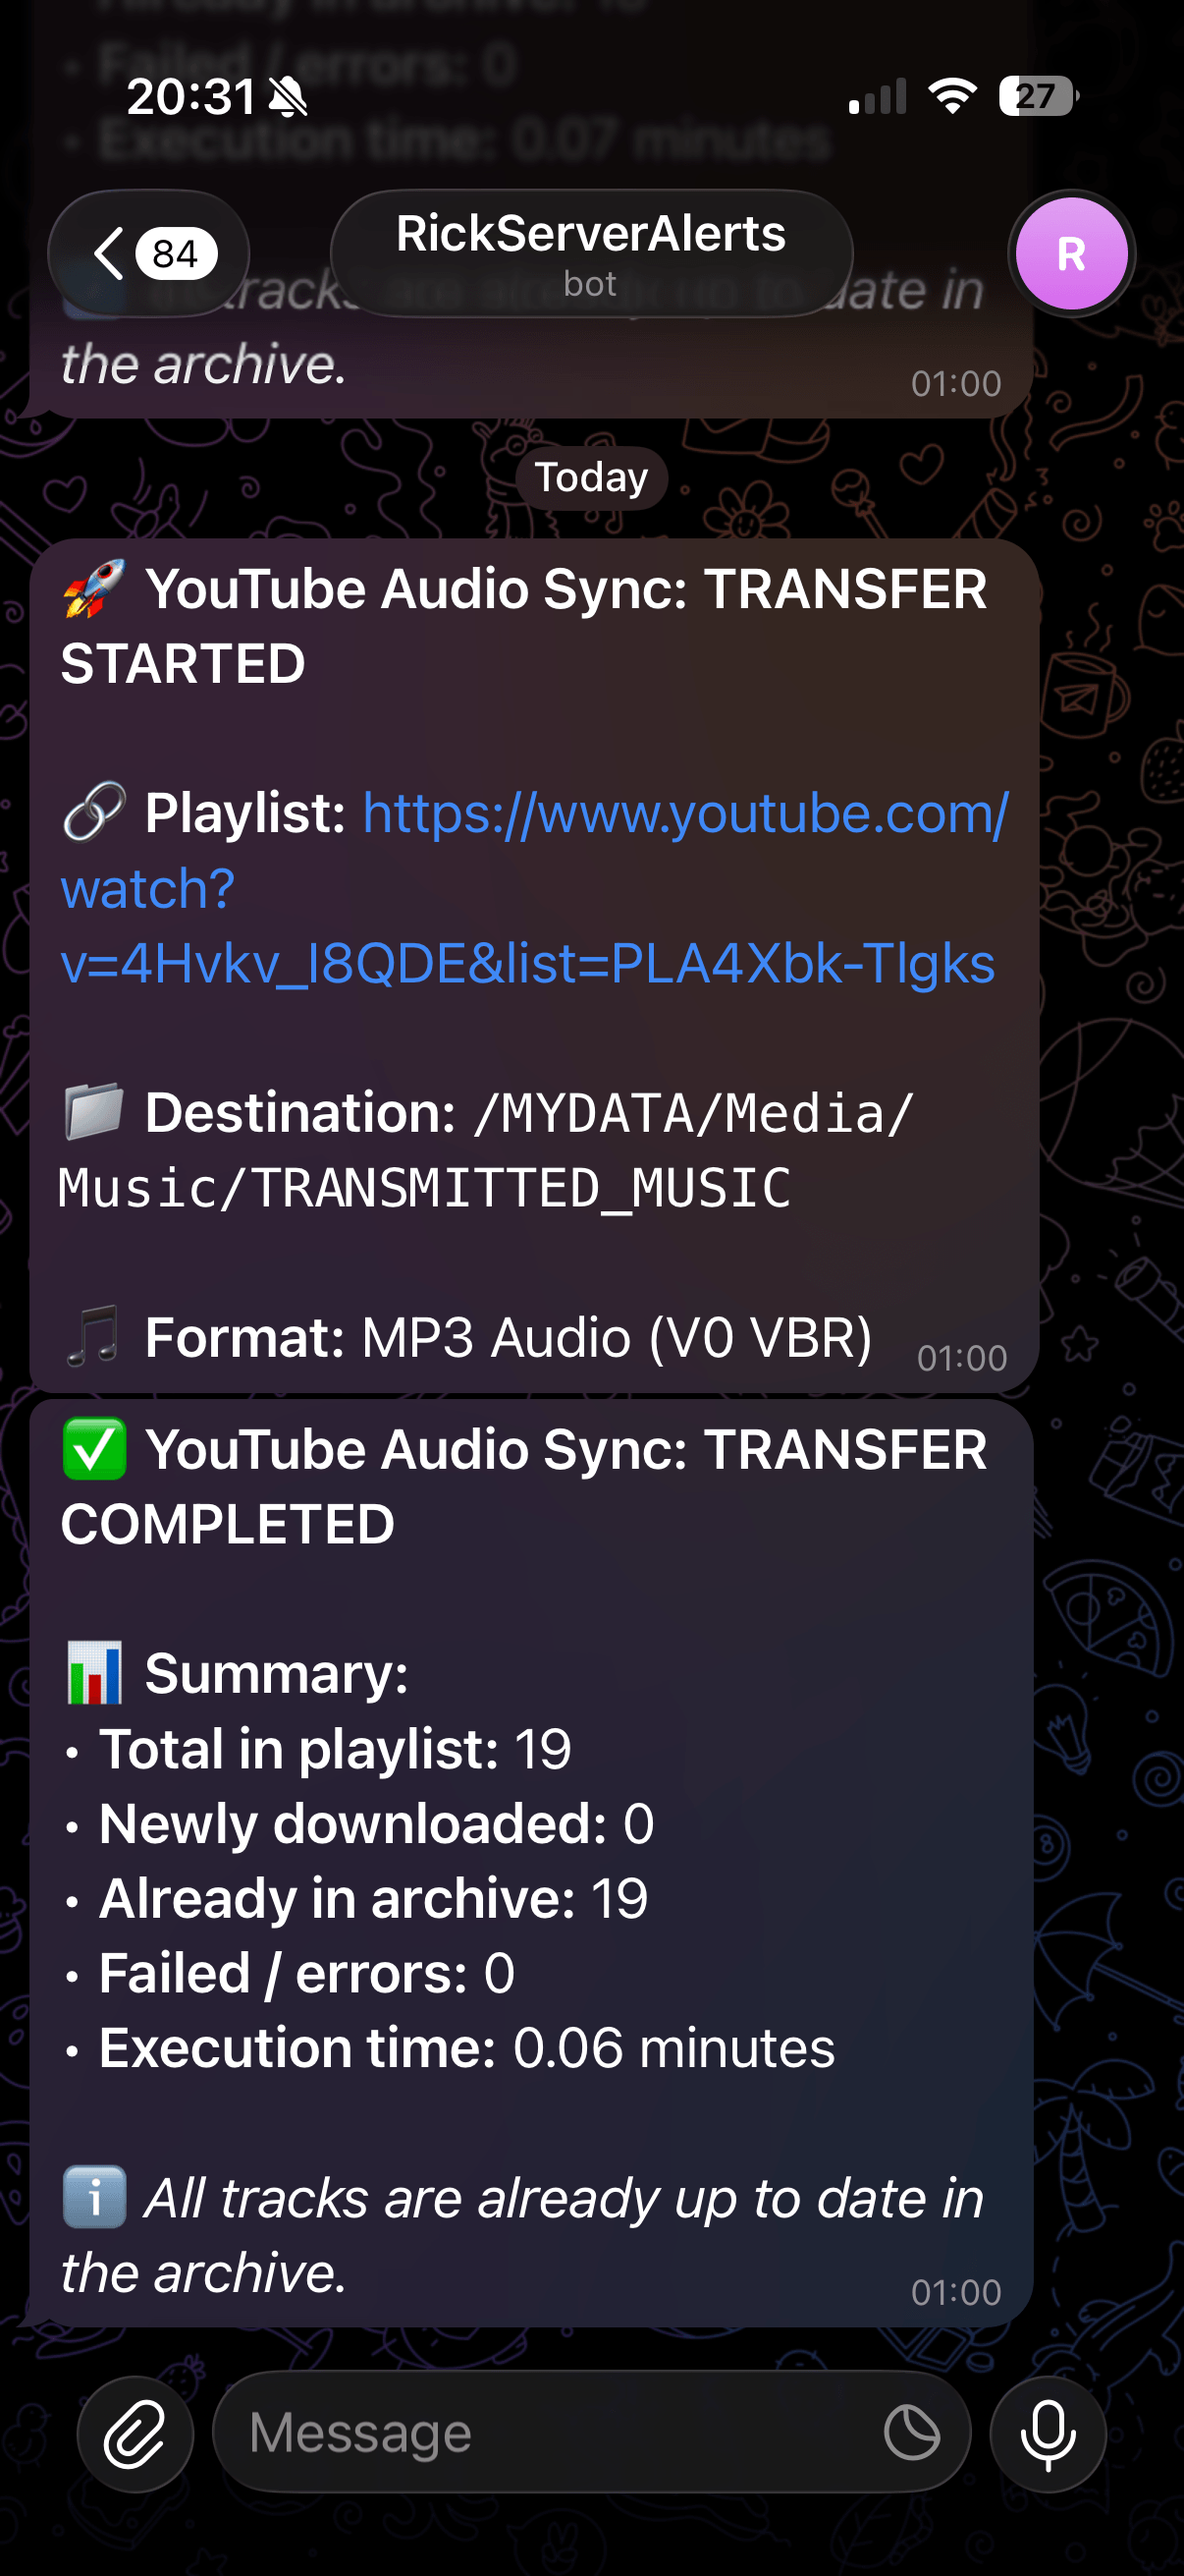
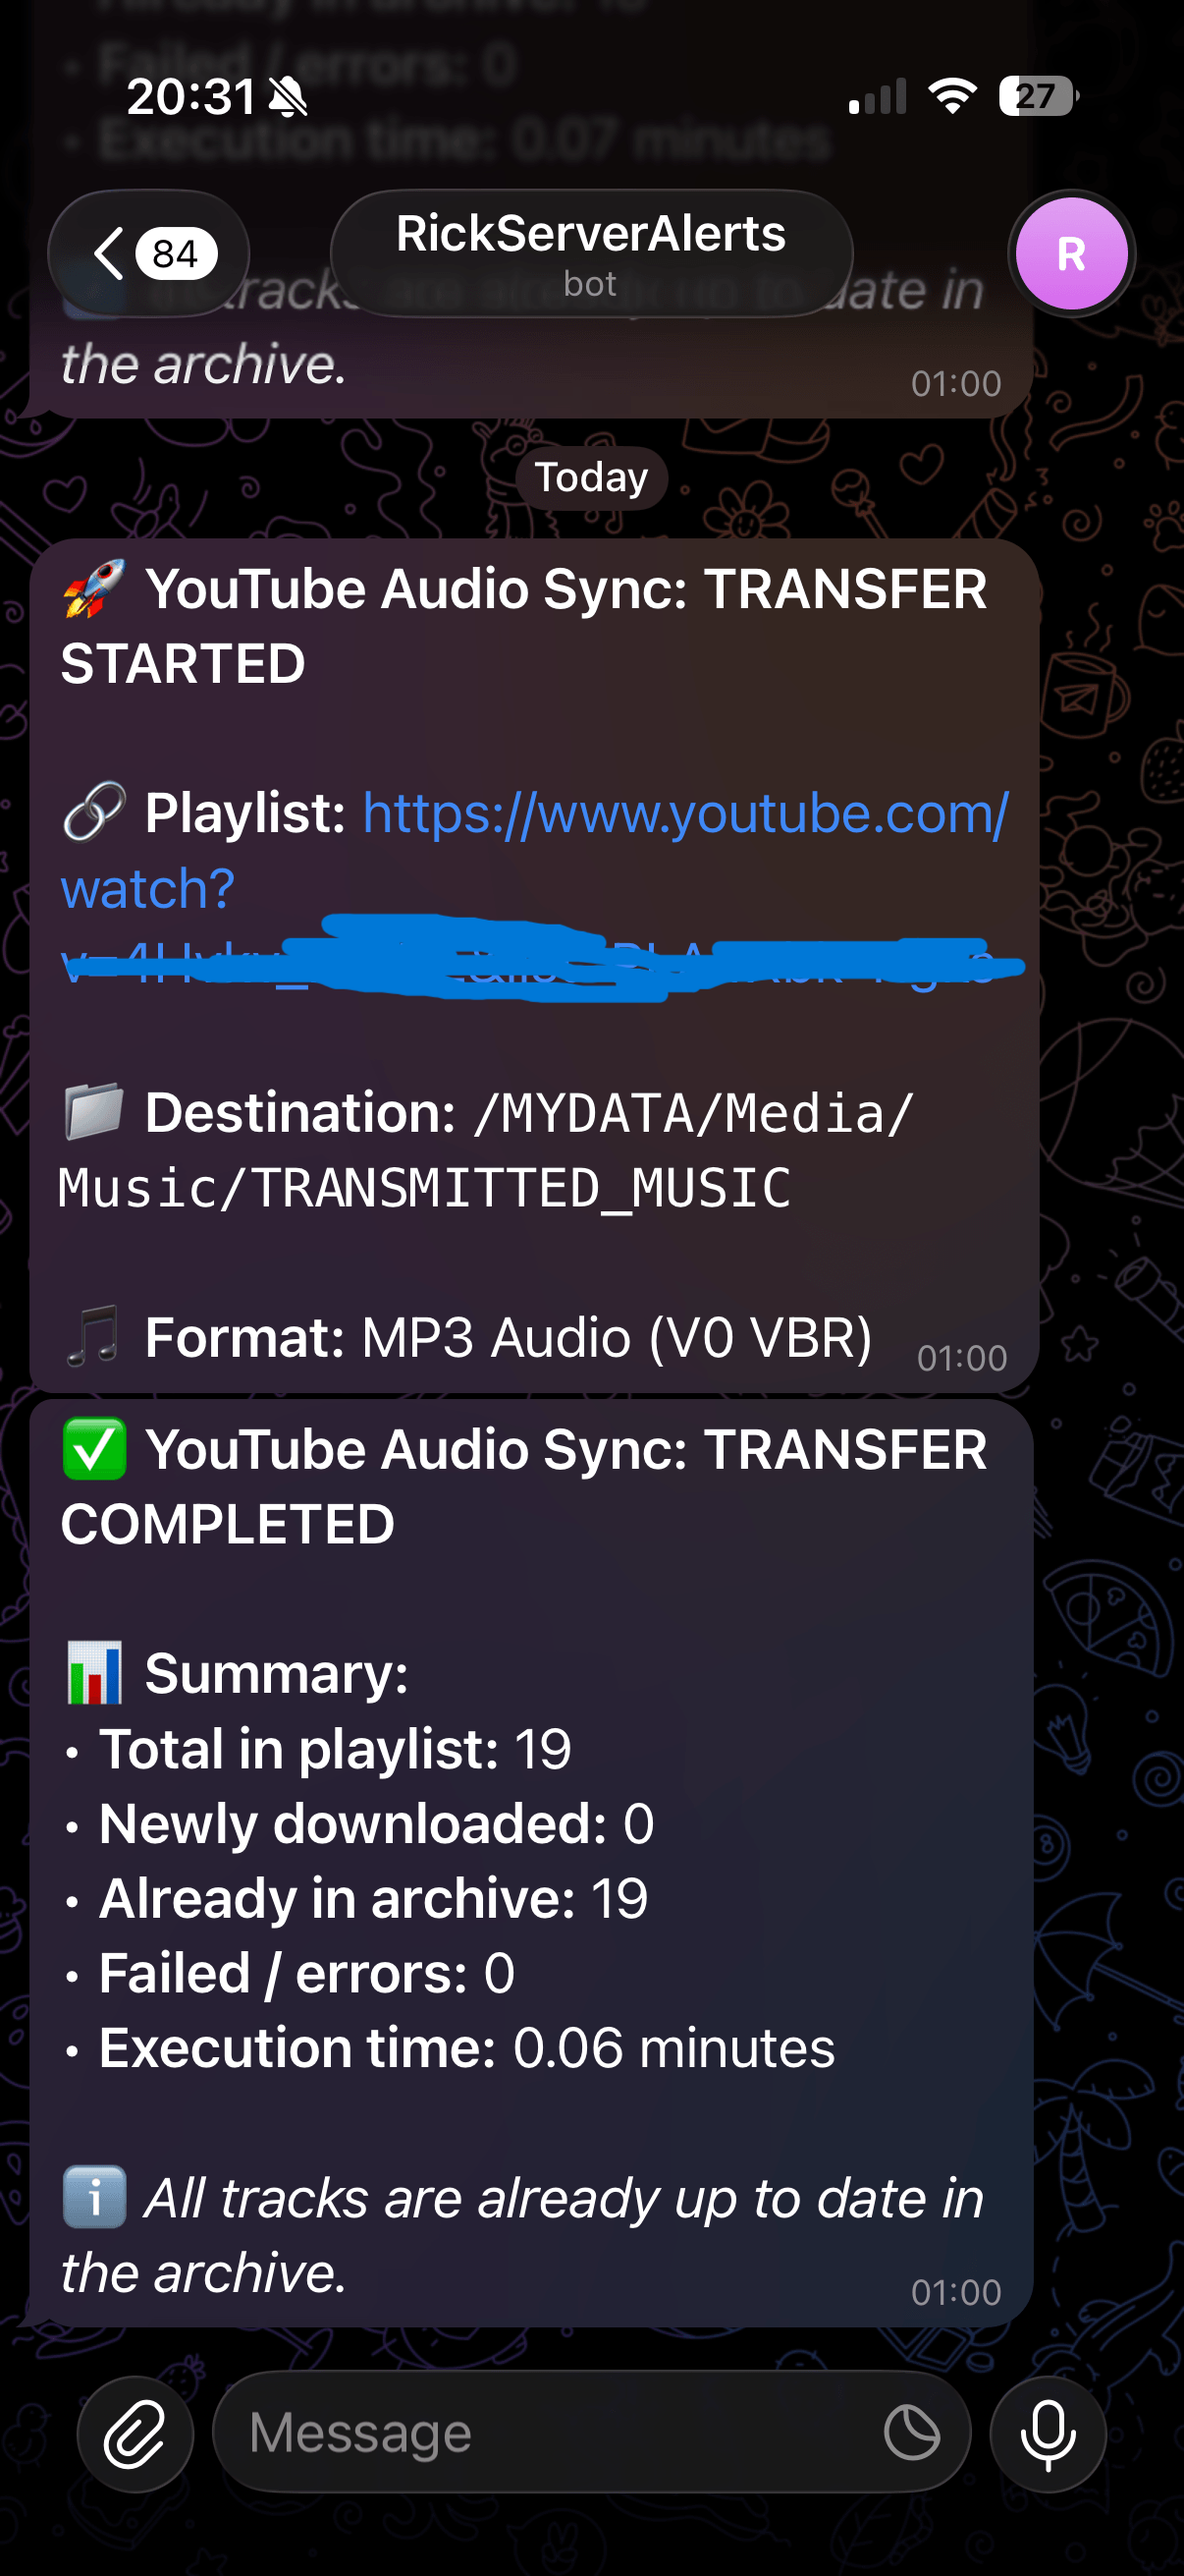
Picture fixes and added all server services and monitoring screenshots

Changed region(s): [[0.0614, 0.3398, 0.859, 0.4016]]

diff --git a/public/blog-data.js b/public/blog-data.js
@@ -39,6 +39,22 @@ const articles = [
         <li><strong>Telemetry Exporters:</strong> Dedicated exporter containers that collect application and host performance metrics.</li>
       </ul>
 
+      <!-- Docker, Portainer & Plex Screenshots -->
+      <div class="my-8 space-y-6">
+        <figure class="rounded-xl overflow-hidden border border-slate-800 bg-slate-900/60 p-3 sm:p-4">
+          <img src="images/SERVER%20PICS/DOCKERPORTAINER.png" alt="Portainer environment overview showing 2 stacks, 6 running containers, 4 volumes, 4 CPUs, and 8 GB RAM" class="rounded-lg w-full h-auto object-contain mx-auto" loading="lazy" />
+          <figcaption class="text-xs font-mono text-slate-400 mt-3 text-center">Portainer environment overview: 2 stacks, 6 running containers, 4 CPU / 8 GB RAM (click to enlarge)</figcaption>
+        </figure>
+        <figure class="rounded-xl overflow-hidden border border-slate-800 bg-slate-900/60 p-3 sm:p-4">
+          <img src="images/SERVER%20PICS/PORTAINER%20DOCKER.png" alt="Portainer container list showing grafana, mssqlserver, node-exporter, plex-exporter, portainer, and prometheus running" class="rounded-lg w-full h-auto object-contain mx-auto" loading="lazy" />
+          <figcaption class="text-xs font-mono text-slate-400 mt-3 text-center">Active Docker containers managed in Portainer across monitoring and SQL Server stacks (click to enlarge)</figcaption>
+        </figure>
+        <figure class="rounded-xl overflow-hidden border border-slate-800 bg-slate-900/60 p-3 sm:p-4">
+          <img src="images/SERVER%20PICS/PLEX%20MEDIA.png" alt="Plex Media Server web interface running on the local home network" class="rounded-lg w-full h-auto object-contain mx-auto" loading="lazy" />
+          <figcaption class="text-xs font-mono text-slate-400 mt-3 text-center">Plex Media Server streaming movies, TV, and music over the local network (click to enlarge)</figcaption>
+        </figure>
+      </div>
+
       <h3 class="text-xl font-bold text-white mt-8 mb-3">3. Monitoring: Prometheus & Grafana</h3>
       <p class="text-slate-300 mb-4 leading-relaxed">
         To understand system behavior under load, I deployed Prometheus alongside Grafana. Prometheus scrapes operational metrics on regular intervals, while Grafana visualizes the data across custom dashboards.
@@ -51,6 +67,26 @@ const articles = [
       <p class="text-slate-300 mb-4 leading-relaxed">
         This setup is designed as a practical personal implementation to understand observability principles, focusing on actionable dashboards rather than complex enterprise monitoring suites.
       </p>
+
+      <!-- Prometheus & Grafana Monitoring Screenshots -->
+      <div class="my-8 space-y-6">
+        <figure class="rounded-xl overflow-hidden border border-slate-800 bg-slate-900/60 p-3 sm:p-4">
+          <img src="images/SERVER%20PICS/PROMETHEUS.png" alt="Prometheus target health page showing node-exporter and plex scrape endpoints UP" class="rounded-lg w-full h-auto object-contain mx-auto" loading="lazy" />
+          <figcaption class="text-xs font-mono text-slate-400 mt-3 text-center">Prometheus target health confirming active scrapes for node-exporter and Plex (click to enlarge)</figcaption>
+        </figure>
+        <figure class="rounded-xl overflow-hidden border border-slate-800 bg-slate-900/60 p-3 sm:p-4">
+          <img src="images/SERVER%20PICS/UBUNTU%20MONITORING.png" alt="Grafana Node Exporter Full dashboard showing CPU, system load, RAM, swap, disk usage, and network traffic" class="rounded-lg w-full h-auto object-contain mx-auto" loading="lazy" />
+          <figcaption class="text-xs font-mono text-slate-400 mt-3 text-center">Grafana Node Exporter dashboard: Ubuntu host CPU, RAM, disk I/O, and 2.2-week uptime (click to enlarge)</figcaption>
+        </figure>
+        <figure class="rounded-xl overflow-hidden border border-slate-800 bg-slate-900/60 p-3 sm:p-4">
+          <img src="images/SERVER%20PICS/SQLSERVER%20MONITORING.png" alt="Grafana Microsoft SQL Server dashboard showing health score, sessions, batch requests, and query performance" class="rounded-lg w-full h-auto object-contain mx-auto" loading="lazy" />
+          <figcaption class="text-xs font-mono text-slate-400 mt-3 text-center">Grafana SQL Server dashboard: health score, session status, and top slowest/CPU-heavy queries (click to enlarge)</figcaption>
+        </figure>
+        <figure class="rounded-xl overflow-hidden border border-slate-800 bg-slate-900/60 p-3 sm:p-4">
+          <img src="images/SERVER%20PICS/PLEX%20MONITORING.png" alt="Grafana Plex Media Server Exporter dashboard showing heartbeat, streams, transcodes, and library breakdown" class="rounded-lg w-full h-auto object-contain mx-auto" loading="lazy" />
+          <figcaption class="text-xs font-mono text-slate-400 mt-3 text-center">Grafana Plex Exporter dashboard: service heartbeat, stream activity, and library breakdown (click to enlarge)</figcaption>
+        </figure>
+      </div>
 
       <h3 class="text-xl font-bold text-white mt-8 mb-3">4. Scheduled Automation & Proactive Alerts</h3>
       <p class="text-slate-300 mb-4 leading-relaxed">
